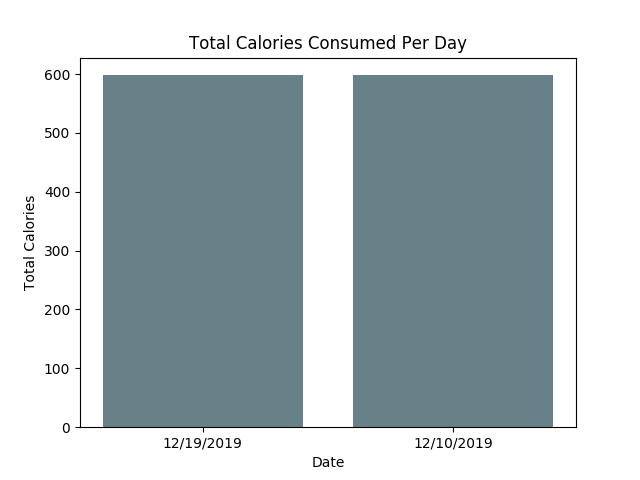
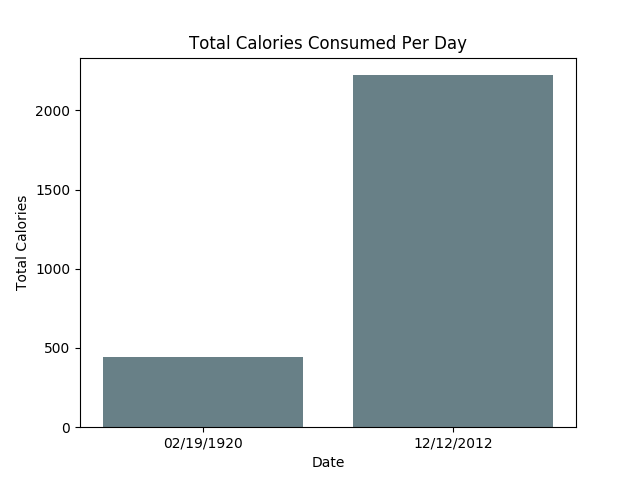
99% done

diff --git a/MEALBURNER/templates/mealburner_app/daily_meals2.html b/MEALBURNER/templates/mealburner_app/daily_meals2.html
@@ -43,7 +43,7 @@
                         {% csrf_token %}
                         <input type="hidden" name="id" value="{{ item.id }}">
                         <input type="hidden" name="update" value=True>
-                        <input class="td_button btn btn-success" type="submit" value="Update Meal">
+                        <input class="td_button btn btn-dark" type="submit" value="Update Meal">
                     </a>
                 </div>
             </div>
@@ -54,7 +54,7 @@
                         {% csrf_token %}
                         <input type="hidden" name="id" value="{{ item.id }}">
                         <input type="hidden" name="delete_activity" value=True>
-                        <input class="td_button btn btn-success" type="submit" value="Delete meal">
+                        <input class="td_button btn btn-dark" type="submit" value="Delete meal">
                     </form>
                 </div>
             </td>
@@ -65,7 +65,7 @@
                             {% csrf_token %}
                             <input type="hidden" name="id" value="{{ item.id }}">
                             <input type="hidden" name="individual_meal_view" value=True>
-                            <input class="td_button btn btn-success" type="submit" value="Meal">
+                            <input class="td_button btn btn-dark" type="submit" value="Meal">
                         </a>
                     </div>
                 </div>
@@ -124,7 +124,7 @@
                     {% csrf_token %}
                     <input type="hidden" name="id" value="{{ item.id }}">
                     <input type="hidden" name="update" value=True>
-                    <input class="td_button btn btn-success" type="submit" value="Update Activity">
+                    <input class="td_button btn btn-dark" type="submit" value="Update Activity">
                 </a>
             </div>
         </div>
@@ -135,7 +135,7 @@
                     {% csrf_token %}
                     <input type="hidden" name="id" value="{{ item.id }}">
                     <input type="hidden" name="delete_activity" value=True>
-                    <input class="td_button btn btn-success" type="submit" value="Delete activity">
+                    <input class="td_button btn btn-dark" type="submit" value="Delete activity">
                 </form>
             </div>
         </td>
@@ -146,7 +146,7 @@
                         {% csrf_token %}
                         <input type="hidden" name="id" value="{{ item.id }}">
                         <input type="hidden" name="individual_act_view" value=True>
-                        <input class="td_button btn btn-success" type="submit" value="Meal">
+                        <input class="td_button btn btn-dark" type="submit" value="Actvitiy">
                     </a>
                 </div>
             </div>

diff --git a/MEALBURNER/templates/mealburner_app/about.html b/MEALBURNER/templates/mealburner_app/about.html
@@ -25,9 +25,9 @@
             <div class="col-4">
                 <div class="card my_shadow" style="width: 18rem;">
                     <div class="card-body">
-                        <h5 class="card-title">null</h5>
-                        <p class="fred_link card-text">null</p>
-                        <a target='blank'href='' class="btn btn-dark">null</a>
+                        <h5 class="card-title">CDC Information on Healthy Eating</h5>
+                        <p class="fred_link card-text">CDC</p>
+                        <a target='blank'href='https://www.cdc.gov/healthyweight/calories/index.html' class="btn btn-dark">Link</a>
                     </div>
                 </div>
             </div>
@@ -35,9 +35,9 @@
             <div class="col-4">
                 <div class="card my_shadow" style="width: 18rem;">
                     <div class="card-body">
-                        <h5 class="card-title">null</h5>
-                        <p class="card-text">null</p>
-                        <a target='blank'href="" class="btn btn-dark">null</a>
+                        <h5 class="card-title">Harvard Health on Nutrition</h5>
+                        <p class="card-text">Harvard</p>
+                        <a target='blank'href="https://www.hsph.harvard.edu/nutritionsource/" class="btn btn-dark">Link</a>
                     </div>
                 </div>
             </div>
@@ -45,9 +45,9 @@
             <div class="col-4">
                 <div class="card my_shadow" style="width: 18rem;">
                     <div class="card-body">
-                        <h5 class="card-title">null</h5>
-                        <p class="card-text">null</p>
-                        <a target='blank'href="" class="btn btn-dark">null</a>
+                        <h5 class="card-title">National Institute on Aging</h5>
+                        <p class="card-text">NIA</p>
+                        <a target='blank'href="https://www.nia.nih.gov/health/important-nutrients-know-proteins-carbohydrates-and-fats" class="btn btn-dark">Link</a>
                     </div>
                 </div>
             </div>

diff --git a/MEALBURNER/templates/partials/navbar.html b/MEALBURNER/templates/partials/navbar.html
@@ -37,7 +37,7 @@
             </a>
             <div class="dropdown-menu sm-menu">
               <a class="drop1 dropdown-item" href={% url 'view_prof' user.id %}>View Profile</a>
-              <a class="drop2 dropdown-item" href={% url 'view' %}>View Daily Log</a>
+              <a class="drop2 dropdown-item" href={% url 'view' %}>View Meal and Actvitiy History</a>
               <a class="drop3 dropdown-item" href={% url 'create_meal' %}>Add Meal</a>
               <a class="drop4 dropdown-item" href={% url 'create_activity' %}>Create Activity</a>
               <a class="drop5 dropdown-item" href={% url 'view_cal' %}>Visualize Caloric Intake</a>

diff --git a/MEALBURNER/mealburner_app/static/styles.css b/MEALBURNER/mealburner_app/static/styles.css
@@ -232,6 +232,7 @@ div.list_table div.row:nth-of-type(odd){
   line-height: 1;
   text-shadow: black 3px 2px 0;
   position: relative;
+  margin-left: 80px;
 }
 #logo:after {
   content:"Prakash";
@@ -296,7 +297,7 @@ div.list_table div.row:nth-of-type(odd){
   width:200px;
 }
 #learn_more{
-  height: 50px;
+  height: 45px;
   width: 150px;
 }
 #logo_about {
@@ -359,6 +360,7 @@ div.list_table div.row:nth-of-type(odd){
   line-height: 1;
   text-shadow: black 3px 2px 0;
   position: relative;
+  margin-left: 80px;
 }
 #logo_profile:after {
   content:"Prakash";

diff --git a/MEALBURNER/templates/mealburner_app/profile_view.html b/MEALBURNER/templates/mealburner_app/profile_view.html
@@ -103,6 +103,7 @@
                                                 <p id='user_stat'>{{ profile.activity_level }}</p>
                                             </div>
                                         </div>
+                                        <br>
                             </div>
                             <div class="tab-pane fade" id="profile" role="tabpanel" aria-labelledby="profile-tab">
                                         <br>

diff --git a/MEALBURNER/templates/mealburner_app/home.html b/MEALBURNER/templates/mealburner_app/home.html
@@ -29,7 +29,7 @@
           <a class="btn_back btn btn-dark" id="login_out" href="{% url 'logout' %}">Logout</a>
          
         {% else %}
-          <h4>Welcome! Log in or Create an Account</h4>
+          <h4 id='welcome_user'>Welcome! Log in or Create an Account</h4>
           <br>
           <br>
           <a class="btn_back btn btn-dark" id="login_out" href="{% url 'login' %}">Login</a>

diff --git a/MEALBURNER/templates/mealburner_app/meal_act_view.html b/MEALBURNER/templates/mealburner_app/meal_act_view.html
@@ -11,7 +11,8 @@
 will need to be able to sort date by day specifically {% endcomment %}
 
 
-
+<br>
+<br>
 <div class='container'>
     
     <div class='Portfolio'>

diff --git a/MEALBURNER/mealburner_app/views.py b/MEALBURNER/mealburner_app/views.py
@@ -260,28 +260,22 @@ def cal_box(request):
     
     my_activities = Activity.objects.filter(profile=Profile.objects.get(username=usr))
     
-    new_list = []
-    for i in my_meals:
-        new_list.append(i.date.strftime('%m/%d/%Y')) 
-         
-    print(new_list)
-    
-    total = 0
+    date_list = [x.strftime('%m/%d/%Y') for x in sorted({i.date for i in my_meals})]
+    cal_list = []
 
-    total_cal = 0
+    for x in date_list:
+        total_cal = 0
+        total_cal_burn = 0
+        for m in my_meals:
+            if m.date.strftime('%m/%d/%Y') == x:
+                total_cal += m.calories
+        for a in my_activities:
+            if a.date.strftime('%m/%d/%Y') == x:
+                total_cal_burn += a.calories_burned
 
-    total_cal_burn = 0
-
-    for meal in my_meals:
-        total_cal += meal.calories
+        cal_list.append(total_cal - total_cal_burn)
     
-    for activity in my_activities:
-        total_cal_burn += activity.calories_burned
-    
-    total = total_cal - total_cal_burn
-    
-    cal_plot = plt.bar(new_list, total, color='#688087', linewidth=0)
-    
+    cal_plot = plt.bar(date_list, cal_list, color='#688087', linewidth=0)
     
     plt.xlabel('Date')
     plt.ylabel('Total Calories')
